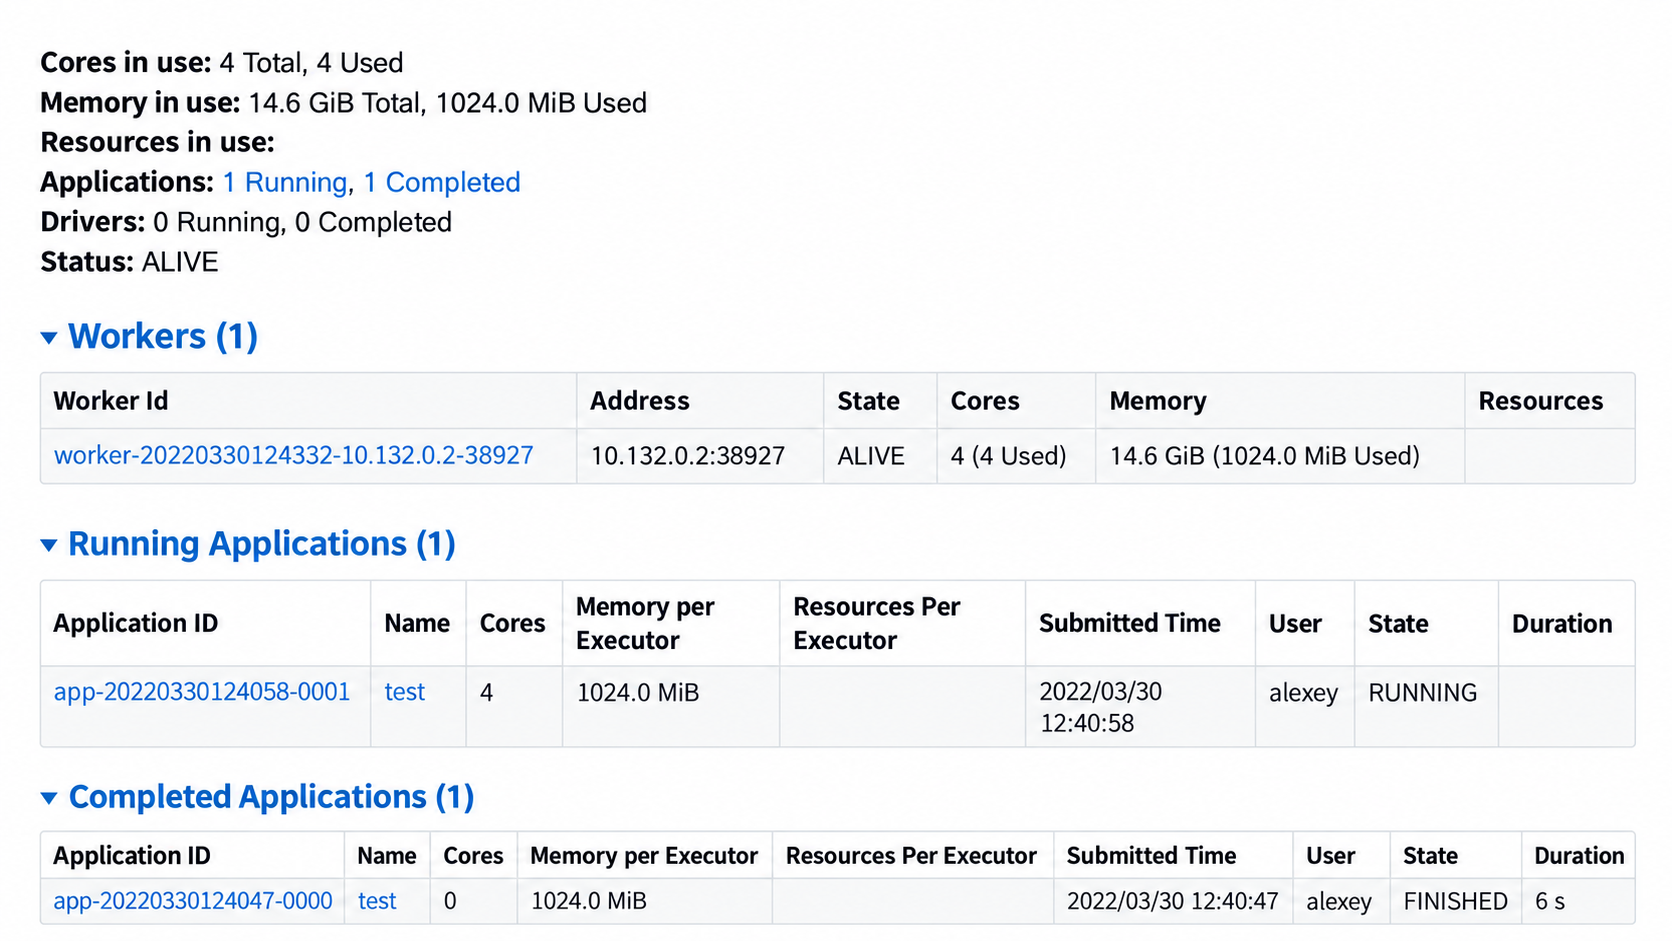
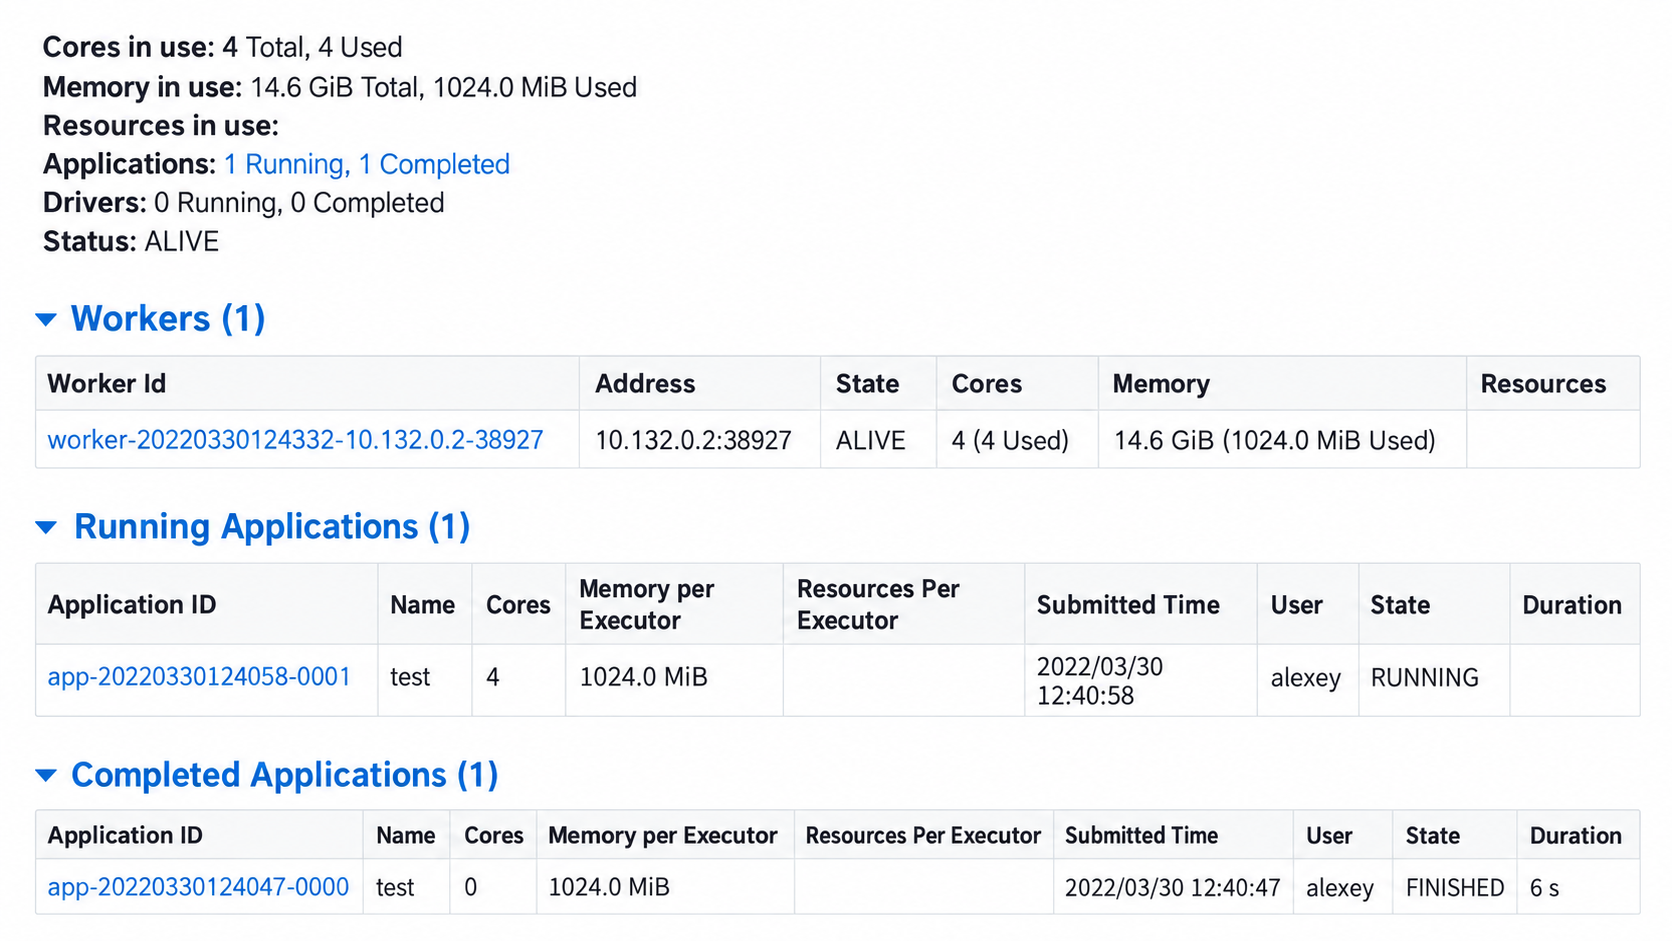
Regenerate Spark worker UI with imagegen

diff --git a/cohorts/2027/06-batch/2026-09-09-follow-up-provenance.md b/cohorts/2027/06-batch/2026-09-09-follow-up-provenance.md
@@ -25,6 +25,12 @@ preserved.
 |---|---|---|---|---|---|
[1 lines of base64/hex data omitted]
 
+## Spark master UI — worker registered
+
+| Published target | Original JPG SHA-256 | Bounded crop SHA-256 | Published output SHA-256 | Imagegen output | Validation |
+|---|---|---|---|---|---|
[1 lines of base64/hex data omitted]
+
 ## BigQuery connector traceback — removed
 
 | Former published target | Original JPG SHA-256 | Bounded crop SHA-256 | Former output SHA-256 | Decision |
